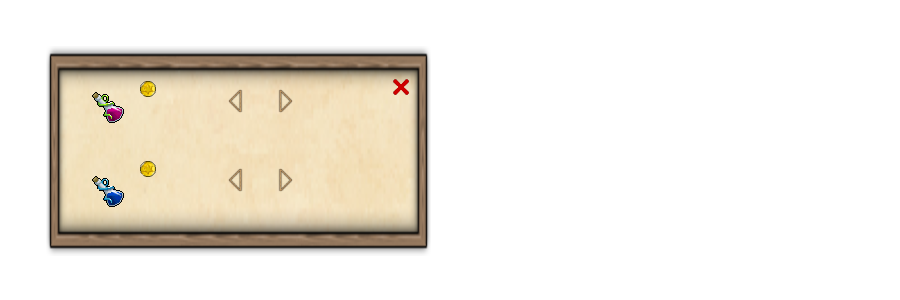
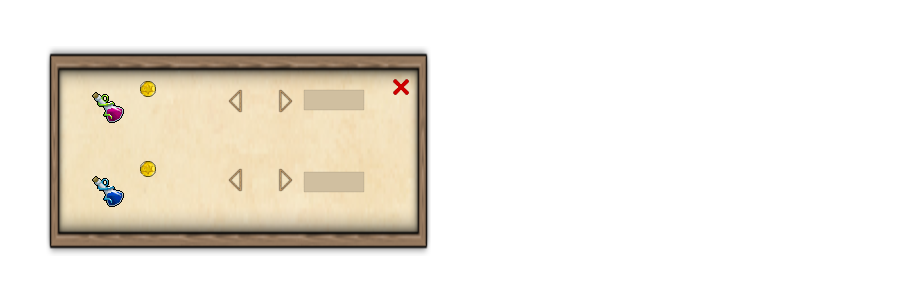
A

Changed region(s): [[0.3111, 0.57, 0.4044, 0.66], [0.3111, 0.3, 0.4044, 0.39]]

diff --git a/js/controller/ShopPanel.js b/js/controller/ShopPanel.js
@@ -34,8 +34,8 @@ export class ShopPanel {
       },
       {
         type: "heal_buy",
-        x: shopPanel.position.x + 315,
-        y: shopPanel.position.y + 93,
+        x: shopPanel.position.x + 305,
+        y: shopPanel.position.y + 90,
         w: 60,
         h: 20,
       },
@@ -55,7 +55,7 @@ export class ShopPanel {
       },
       {
         type: "shield_buy",
-        x: shopPanel.position.x + 315,
+        x: shopPanel.position.x + 305,
         y: shopPanel.position.y + 171,
         w: 60,
         h: 20,
@@ -182,19 +182,9 @@ export class ShopPanel {
 
     c.fillText(
       "BUY",
-      this.shopPanel.position.x + 330,
-      this.shopPanel.position.y + 108
+      this.shopPanel.position.x + 320,
+      this.shopPanel.position.y + 105
     );
-
-    c.beginPath();
-    c.strokeStyle = "gray";
-    c.rect(
-      this.shopPanel.position.x + 315,
-      this.shopPanel.position.y + 93,
-      60,
-      20
-    );
-    c.stroke();
 
     c.font = "13px Arial";
 
@@ -229,19 +219,9 @@ export class ShopPanel {
 
     c.fillText(
       "BUY",
-      this.shopPanel.position.x + 330,
+      this.shopPanel.position.x + 320,
       this.shopPanel.position.y + 186
     );
-
-    c.beginPath();
-    c.strokeStyle = "gray";
-    c.rect(
-      this.shopPanel.position.x + 315,
-      this.shopPanel.position.y + 171,
-      60,
-      20
-    );
-    c.stroke();
 
     c.font = "13px Arial";
 
